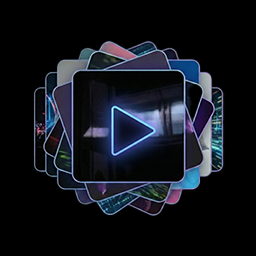
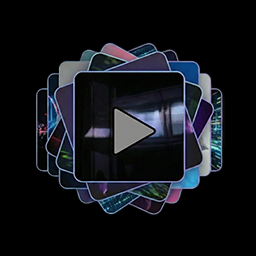
fix: update imageSlideshow thumbnail, rename Post-Processing to Filters, add Bloom Filter effect
- Updated imageSlideshow.png thumbnail in public folder
- Changed 'Post-Processing' category to 'Filters' for consistency
- Added Bloom Filter effect to Filters category with full parameter modal support
- Added bloom filter parameter sliders (intensity, threshold, softness, radius) with audio mapping
- Fixed Safari ASCII title overflow issue with improved containment and max-width

-Agent Generated Commit Message

Changed region(s): [[0.125, 0.1562, 0.875, 0.8438], [0.75, 0.625, 0.7812, 0.6562], [0.7188, 0.6562, 0.75, 0.6875]]

diff --git a/apps/web/src/components/ui/phonoglyph-logo.tsx b/apps/web/src/components/ui/phonoglyph-logo.tsx
@@ -7,18 +7,28 @@ interface PhonoglyphLogoProps {
 }
 
 export function PhonoglyphLogo({ className, size = 'md' }: PhonoglyphLogoProps) {
-  const sizeClasses = {
-    sm: 'text-[2px] leading-[2px]',
-    md: 'text-[3px] leading-[3px]',
-    lg: 'text-[4px] leading-[4px]'
-  };
+  const sizeScale = {
+    sm: 0.32,
+    md: 0.42,
+    lg: 0.52
+  } as const satisfies Record<NonNullable<PhonoglyphLogoProps['size']>, number>;
 
   return (
-    <pre className={cn(
-      "font-mono whitespace-pre text-gray-100 overflow-hidden w-full",
-      sizeClasses[size],
-      className
-    )}>
+    <div className="overflow-hidden w-full max-w-full" style={{ contain: 'layout' }}>
+      <pre
+        className={cn(
+          "font-mono whitespace-pre text-gray-100 inline-block origin-top-left",
+          className
+        )}
+        style={{
+          fontSize: '10px',
+          lineHeight: '10px',
+          transform: `scale(${sizeScale[size] ?? sizeScale.md})`,
+          transformOrigin: 'top left',
+          maxWidth: '100%',
+          overflow: 'hidden'
+        }}
+      >
 {`                                                                                                                    
                                                                                                                     
 \`7MM"""Mq.\`7MMF'  \`7MMF' .g8""8q. \`7MN.   \`7MF' .g8""8q.     .g8"""bgd \`7MMF'   \`YMM'   \`MM'\`7MM"""Mq.\`7MMF'  \`7MMF'
@@ -30,6 +40,7 @@ export function PhonoglyphLogo({ className, size = 'md' }: PhonoglyphLogoProps) 
 .JMML.    .JMML.  .JMML. \`"bmmd"' .JML.    YM   \`"bmmd"'     \`"bmmmdPY .JMMmmmmMMM .JMML.   .JMML.    .JMML.  .JMML.
                                                                                                                     
                                                                                                                     `}
-    </pre>
+      </pre>
+    </div>
   );
 }

diff --git a/apps/web/src/app/creative-visualizer/page.tsx b/apps/web/src/app/creative-visualizer/page.tsx
@@ -686,7 +686,7 @@ function CreativeVisualizerPage() {
       id: 'asciiFilter', 
       name: 'ASCII Filter', 
       description: 'Converts layers beneath to ASCII art with audio-reactive parameters',
-      category: 'Post-Processing',
+      category: 'Filters',
       rarity: 'Rare',
       parameters: {
         gridSize: 0.05,
@@ -694,6 +694,19 @@ function CreativeVisualizerPage() {
         opacity: 0.87,
         contrast: 1.4,
         invert: 0.0
+      }
+    },
+    { 
+      id: 'bloomFilter', 
+      name: 'Bloom Filter', 
+      description: 'Adds cinematic bloom glow to everything below this layer',
+      category: 'Filters',
+      rarity: 'Rare',
+      parameters: {
+        intensity: 0.75,
+        threshold: 0.55,
+        softness: 0.35,
+        radius: 0.35
       }
     },
     // HUD Overlay Effects
@@ -1358,6 +1371,11 @@ function CreativeVisualizerPage() {
     if (paramName === 'contrast') return 2.0;
     if (paramName === 'invert') return 1.0;
     if (paramName === 'fontSize') return 1.5;
+    // Bloom Filter parameters
+    if (paramName === 'intensity') return 2.0;
+    if (paramName === 'threshold') return 1.0;
+    if (paramName === 'softness') return 1.0;
+    if (paramName === 'radius') return 1.0;
     return 100; // Default max for other numeric parameters
   };
 
@@ -1377,6 +1395,11 @@ function CreativeVisualizerPage() {
     if (paramName === 'contrast') return 0.01;
     if (paramName === 'invert') return 1.0; // Binary toggle
     if (paramName === 'fontSize') return 0.01;
+    // Bloom Filter parameters
+    if (paramName === 'intensity') return 0.01;
+    if (paramName === 'threshold') return 0.01;
+    if (paramName === 'softness') return 0.01;
+    if (paramName === 'radius') return 0.01;
     return 1; // Default step for other numeric parameters
   };
 

diff --git a/apps/web/src/components/ui/EffectsLibrarySidebar.tsx b/apps/web/src/components/ui/EffectsLibrarySidebar.tsx
@@ -10,7 +10,7 @@ export interface EffectUIData {
   id: string;
   name: string;
   description: string;
-  category: 'Generative' | 'Overlays' | 'Post-Processing';
+  category: 'Generative' | 'Overlays' | 'Filters';
   rarity: 'Common' | 'Rare' | 'Mythic';
   parameters?: Record<string, any>; // <-- Added optional parameters property
   image?: string; // <-- Added optional image property
@@ -126,7 +126,7 @@ export function EffectsLibrarySidebar({
   const [expandedCategories, setExpandedCategories] = useState<Record<string, boolean>>({
     'Generative': true,
     'Overlays': true,
-    'Post-Processing': true
+    'Filters': true
   });
 
   // Filter effects based on search query
@@ -147,7 +147,7 @@ export function EffectsLibrarySidebar({
     const categories: Record<string, EffectUIData[]> = {
       'Generative': [],
       'Overlays': [],
-      'Post-Processing': []
+      'Filters': []
     };
 
     filteredEffects.forEach(effect => {

diff --git a/apps/web/src/components/midi/three-visualizer.tsx b/apps/web/src/components/midi/three-visualizer.tsx
@@ -555,6 +555,9 @@ function getSliderMax(paramName: string) {
     case 'connectionDistance': return 5.0;
     case 'maxParticles': return 200;
     case 'connectionOpacity': return 1.0;
+    // Bloom Filter parameters
+    case 'intensity': return 2.0;
+    case 'softness': return 1.0;
     default: return 1;
   }
 }
@@ -576,6 +579,11 @@ function getSliderStep(paramName: string) {
     case 'audioSpawnCooldown': return 0.01;
     case 'audioParticleSize': return 0.1;
     case 'audioSpawnIntensity': return 0.01;
+    // Bloom Filter parameters
+    case 'intensity': return 0.01;
+    case 'threshold': return 0.01;
+    case 'softness': return 0.01;
+    case 'radius': return 0.01;
     default: return 0.01;
   }
 } 
